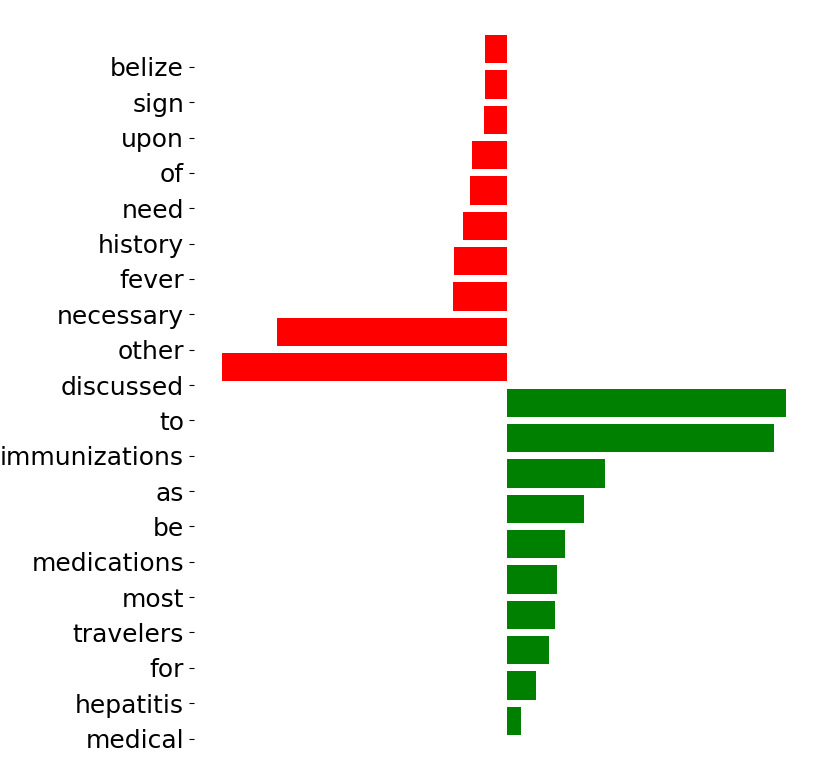
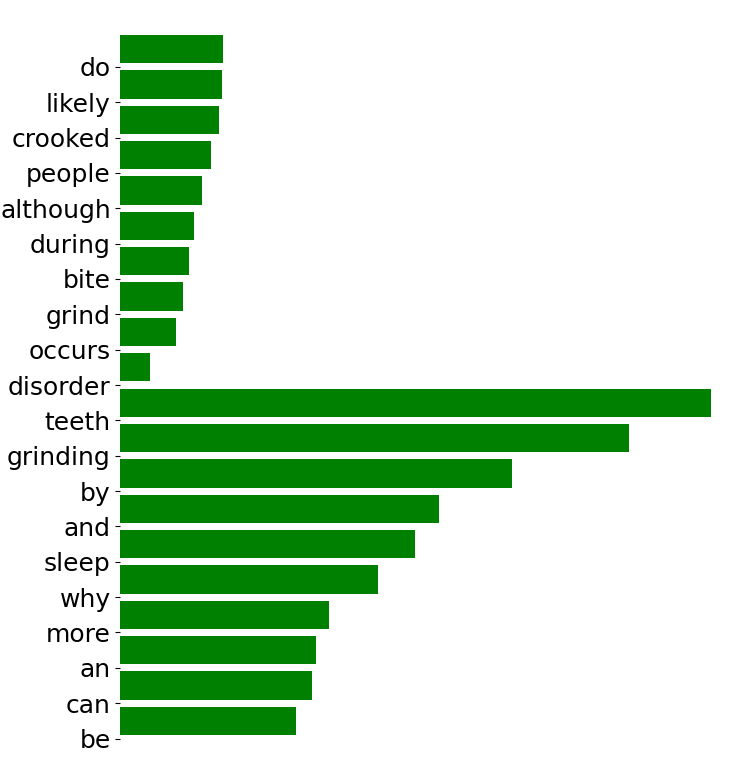
Changes fo crossencoder/mono

Changed region(s): [[0.0, 0.0312, 0.7459, 0.9974], [0.8392, 0.5299, 0.9635, 0.5922], [0.9635, 0.4987, 0.9946, 0.5299]]

diff --git a/static/scripts.js b/static/scripts.js
@@ -6,11 +6,12 @@
   const BOT_NAME = "chatbot";
   const PERSON_NAME = "You";
 
-    // Define a variable to store the selected model
-    let selectedModel = null;
+  // Define a variable to store the selected model
+  let selectedModel = null;
+  let savedResponse = null; 
 
-    // Function to get the selected model
-    function getSelectedModel() {
+  // Function to get the selected model
+  function getSelectedModel() {
     return selectedModel;
     }   
 
@@ -21,6 +22,7 @@
     const chatBubble = document.querySelector('.msg-text');
     const chatMain = document.querySelector('.msger-chat');
 
+    //cross Encoder button
     crossButton.addEventListener('click', function() {
         selectedModel = "Cross Encoder";
         monoButton.disabled = true;
@@ -74,6 +76,7 @@
         }, 1500); // Simulate a delay of 1.5 seconds
     });
 
+    //mono T5 button
     monoButton.addEventListener('click', function() {
         selectedModel = "Mono-T5";
         crossButton.disabled = true;
@@ -125,10 +128,9 @@
             chatMain.appendChild(startMessage);
         }, 1500); // Simulate a delay of 1.5 seconds
     });
-
-
-
-msgerForm.addEventListener("submit", event => {
+    
+    //Send button
+    msgerForm.addEventListener("submit", event => {
     event.preventDefault();
 
     const msgText = msgerInput.value;
@@ -161,20 +163,29 @@ function botResponse(rawText) {
 
     // Send AJAX request to Flask endpoint for processing
     $.ajax({
-        url: "/process", // Use the appropriate endpoint URL
-        type: "POST",   // Use POST method for sending data
+        url: "/process", 
+        type: "POST",   
         contentType: "application/json",
         data: JSON.stringify({ message: rawText, model: selectedModel }), // Send message and model as JSON
         success: function(response) {
+            savedResponse = response;
             // Display bot's response in the chat
             appendMessage(BOT_NAME, "left", response.top_document);
             appendImage(response.explanation_image_path);
-            const rerankedLinks = response.reranked_doc_ids.map(docId => {
-                return `<a href="#" onclick="getExplanation(${docId})">${docId}</a>`;
-            });
-
-            const rerankedLinksHtml = rerankedLinks.join(" , "); // Separate links by line break
-            appendMessage(BOT_NAME, "left", "If you need explanation for specific document - click the document Id: <br>" + rerankedLinksHtml);
+            // const rerankedLinksHtml = response.reranked_doc_ids.map((docId, index) => {
+            //     const responseJsonStr = JSON.stringify(response); 
+            //     console.log("responseJsonStr", responseJsonStr);
+            // return `<a href="#">rank ${index} = ${docId}</a>`;
+            // }).join(", ");      
+            // const rerankedLinksHtml = response.reranked_doc_ids.map((docId, index) => {
+            //     return `<a href="#" class="document-link" data-doc-id="${docId}" data-response-json='${JSON.stringify(response)}'>rank ${index} = ${docId}</a>`;
+            // }).join(", ");   
+            // Generating anchor links
+            const rerankedLinksHtml = response.reranked_doc_ids.map((docId, index) => `
+            <a href="#" class="document-link" data-doc-id="${docId}" data-rank="${index}" data-response-json="${encodeURIComponent(JSON.stringify(response))}">rank ${index} = ${docId}</a>
+            `).join(", ");
+ 
+            appendMessage(BOT_NAME, "left", "If you need an explanation for specific documents, click the document IDs:<br><br>" + rerankedLinksHtml);
         },
         error: function(error) {
             console.error("Error sending message to Flask:", error);
@@ -204,6 +215,103 @@ function appendImage(imagePath) {
     chatContainer.appendChild(imageDiv);
     chatContainer.scrollTop = chatContainer.scrollHeight;
 }
+
+document.addEventListener('click', function(event) {
+    const target = event.target;
+
+    // Check if the clicked element is an anchor element with the class 'document-link'
+    if (target.tagName === 'A' && target.classList.contains('document-link')) {
+        event.preventDefault();
+        const docId = target.getAttribute('data-doc-id');
+        const rank = target.getAttribute('data-rank');
+        const responseJsonStr = target.getAttribute('data-response-json');
+        showDocumentExplanation(docId, responseJsonStr, rank);
+    }
+});
+
+function showDocumentExplanation(docId, responseJsonStr, rank) {
+    appendMessage(PERSON_NAME, "right", docId);
+    const responseJsonEncoded = decodeURIComponent(responseJsonStr);
+    const response = JSON.parse(responseJsonEncoded);
+    const requestData = {
+              rank: rank,
+              doc_id: docId,
+              doc_ids: response.doc_ids,
+              jsondoc: response.jsondoc,
+              rerank_scores: response.rerank_scores,
+              reranked_doc_ids: response.reranked_doc_ids,
+              query: response.query,
+          };
+          
+          // Make a POST request to the backend using jQuery
+          $.ajax({
+              type: "POST",
+              url: "/get_explanation",  // Replace with your Flask route
+              data: JSON.stringify(requestData),
+              contentType: "application/json",
+              success: function(response) {
+                  // Handle the response from the backend as needed
+                  // console.log("Explanation received:", response);
+                  appendImage(response.explanation_image_path);
+                  // Generating anchor links
+                  const rerankedLinksHtml = response.reranked_doc_ids.map((docId, index) => `
+                  <a href="#" class="document-link" data-doc-id="${docId}" data-rank="${index}" data-response-json="${encodeURIComponent(JSON.stringify(response))}">rank ${index} = ${docId}</a>
+                  `).join(", ");
+       
+                
+                appendMessage(BOT_NAME, "left", "If you need an explanation for specific documents, click the document IDs:<br>" + rerankedLinksHtml);
+                  // Do something with the explanation data
+              },
+              error: function(error) {
+                  console.error("Error getting explanation from Flask:", error);
+              }
+             });
+            
+    }
+
+// function getExplanation(index,responseJsonStr) {
+//     const response = JSON.parse(responseJsonStr);
+//     // Get the response JSON from the Flask endpoint
+//     console.log("response", responseJsonStr);
+//   if (response && response.reranked_doc_ids && index >= 0 && index < response.reranked_doc_ids.length) {
+//     const docId = response.reranked_doc_ids[index];
+//     console.log("Getting explanation for document ID:", docId); 
+//   // Construct the request data
+//   const requestData = {
+//       rank: index,
+//       doc_id: docId,
+//       doc_ids: response.doc_ids,
+//       jsondoc: response.jsondoc,
+//       rerank_scores: response.rerank_scores,
+//       reranked_doc_ids: response.reranked_doc_ids,
+//       query: response.query,
+//   };
+
+//   // Make a POST request to the backend using jQuery
+//   $.ajax({
+//       type: "POST",
+//       url: "/get_explanation",  // Replace with your Flask route
+//       data: JSON.stringify(requestData),
+//       contentType: "application/json",
+//       success: function(response) {
+//           // Handle the response from the backend as needed
+//           // console.log("Explanation received:", response);
+//           appendImage(response.explanation_image_path);
+//           const rerankedLinksHtml = response.reranked_doc_ids.map((docId, index) => {
+//             return `<a href="#" onclick="getExplanation(${index}, ${JSON.stringify(response)})">rank ${index} = ${docId}</a>`;
+//         }).join(", ");          
+        
+//         appendMessage(BOT_NAME, "left", "If you need an explanation for specific documents, click the document IDs:<br>" + rerankedLinksHtml);
+//           // Do something with the explanation data
+//       },
+//       error: function(error) {
+//           console.error("Error getting explanation from Flask:", error);
+//       }
+//      });
+//     } else {
+//     console.error("Invalid response data or index:", response, index);
+//     }
+// }
 
    
 

diff --git a/templates/index.html b/templates/index.html
@@ -1,52 +1,44 @@
 <!DOCTYPE html>
 <html lang="en">
-    <head>
-        <meta charset="UTF-8">
-        <meta name="viewport" content="width=device-width, initial-scale=1.0">
-        <meta http-equiv="X-UA-Compatible" content="ie=edge">
-
-        <title> Explaining Through Interface </title>
-        <link rel="stylesheet" href="static/styles/style.css">
-        <script src="https://ajax.googleapis.com/ajax/libs/jquery/3.2.1/jquery.min.js"></script>
-    
-    </head>
-
-    <body>
-        <section class="msger">
-            <header class="msger-header">
-              <div class="msger-header-title">
+<head>
+    <meta charset="UTF-8">
+    <meta name="viewport" content="width=device-width, initial-scale=1.0">
+    <meta http-equiv="X-UA-Compatible" content="ie=edge">
+    <title>Explaining Through Interface</title>
+    <link rel="stylesheet" href="static/styles/style.css">
+    <script src="https://ajax.googleapis.com/ajax/libs/jquery/3.2.1/jquery.min.js"></script>
+</head>
+<body>
+    <section class="msger">
+        <header class="msger-header">
+            <div class="msger-header-title">
                 <i class="fas fa-bug"></i> Explainable Interface <i class="fas fa-bug"></i>
-              </div>
-            </header>
-
-            <main class="msger-chat">
-                <div class="msg left-msg">
-                  <div class="msg-img"></div>
-          
-                  <div class="msg-bubble">
+            </div>
+        </header>
+        <main class="msger-chat">
+            <div class="msg left-msg">
+                <div class="msg-img"></div>
+                <div class="msg-bubble">
                     <div class="msg-info">
-                      <div class="msg-info-name">chatbot</div>
+                        <div class="msg-info-name">chatbot</div>
                     </div>
-          
                     <div class="msg-text">
                         Hi, I am a chatbot. I can assist you in understanding Explainability through this interface.
                         <br><br>
-                         Please select the models for Explainability.
-                         <br><br>   
-                        <button class="cross-button">Cross Encoder</button>  
-                        <button class="mono-button">Mono-T5</button>  
+                        Please select the models for Explainability.
+                        <br><br>
+                        <button class="cross-button">Cross Encoder</button>
+                        <button class="mono-button">Mono-T5</button>
                     </div>
-                  </div>
                 </div>
-              </main>
-          
-              <form class="msger-inputarea">
-                <input type="text" class="msger-input" id="textInput" placeholder="Enter your message...">
-                <button type="submit" class="msger-send-btn">Send</button>
-              </form>
-          
-            </section>
-
-            <script src="static/scripts.js"></script>
-    </body>
+            </div>
+            <div class="detailed-explanation-container"></div>
+        </main>
+        <form class="msger-inputarea">
+            <input type="text" class="msger-input" id="textInput" placeholder="Enter your message...">
+            <button type="submit" class="msger-send-btn">Send</button>
+        </form>
+    </section>
+    <script src="static/scripts.js"></script>
+</body>
 </html>

diff --git a/explain/mono.py b/explain/mono.py
@@ -40,7 +40,7 @@ def visualize(vocabs:np.array, coef: np.array, show_top: int=10, save_path: str 
         plt.close()
         return image_path
 
-def generate_response_cross(user_message):
+def generate_response_mono(user_message):
     query = user_message
     hits = searcher.search(user_message)
     
@@ -78,7 +78,48 @@ def generate_response_cross(user_message):
         'reranked_doc_ids': docids_reranked.tolist(), 
         'jsondoc': json_data_list.tolist(),
         'doc_ids': doc_ids.tolist(), 
-        'rerank_scores': rerank_scores.tolist() 
+        'rerank_scores': rerank_scores ,
+        'query': query
     }
+    return response
+
+def generate_specific_explanation(data):
+    query = data.get('query')
+    print(query)
+    doc_ids = np.array(data.get('doc_ids'))
+    rerank_scores = np.array(data.get('rerank_scores'))
+    docids_reranked = data.get('reranked_doc_ids')
+    r = int(data.get('rank'))
+    doc_id = data.get('doc_id')
+    json_data_list = np.array(data.get('jsondoc'))
+    doc_exp = ''
+    for jsondoc in json_data_list:
+        if 'id' in jsondoc and jsondoc['id'] == doc_id:
+            doc_exp = jsondoc.get('contents', '')
+            break
+    print(doc_exp)  
+    EXS = ExplainableSearch(reranker, 'svm')
+    exp_input = {}
+    exp_input = {query: dict([(a, b) for a, b in zip(doc_ids, rerank_scores)])}
+    for key, value in exp_input[query].items():
+        print(key, value, '\n')
+    exp_doc = {query: {'rank': r,'text':doc_exp}}
+    results = EXS.explain(exp_input, exp_doc , r+1 , 'rank')
+     
+    
+    image_path = visualize(results[query][0], results[query][1], save_path=os.path.join(app.static_folder, 'images'))
+             
+    response = {
+        
+        'explanation_image_path': image_path,
+        'reranked_doc_ids': docids_reranked,
+        'jsondoc': json_data_list.tolist(),
+        'doc_ids': doc_ids.tolist(), 
+        'rerank_scores': rerank_scores.tolist() ,
+        'query': query 
+    }
+
+    print(response)
+
     return response
     

diff --git a/explain/crossencoder.py b/explain/crossencoder.py
@@ -79,7 +79,47 @@ def generate_response_cross(user_message):
         'reranked_doc_ids': docids_reranked.tolist(), 
         'jsondoc': json_data_list.tolist(),
         'doc_ids': doc_ids.tolist(), 
-        'rerank_scores': rerank_scores.tolist() 
+        'rerank_scores': rerank_scores.tolist() ,
+        'query': query
     }
     return response
     
+def generate_specific_explanation(data):
+    query = data.get('query')
+    print(query)
+    doc_ids = np.array(data.get('doc_ids'))
+    rerank_scores = np.array(data.get('rerank_scores'))
+    docids_reranked = data.get('reranked_doc_ids')
+    r = int(data.get('rank'))
+    doc_id = data.get('doc_id')
+    json_data_list = np.array(data.get('jsondoc'))
+    doc_exp = ''
+    for jsondoc in json_data_list:
+        if 'id' in jsondoc and jsondoc['id'] == doc_id:
+            doc_exp = jsondoc.get('contents', '')
+            break
+    print(doc_exp)  
+    EXS = ExplainableSearch(reranker, 'svm')
+    exp_input = {}
+    exp_input = {query: dict([(a, b) for a, b in zip(doc_ids, rerank_scores)])}
+    for key, value in exp_input[query].items():
+        print(key, value, '\n')
+    exp_doc = {query: {'rank': r,'text':doc_exp}}
+    results = EXS.explain(exp_input, exp_doc , r+1 , 'topk-bin')
+     
+    
+    image_path = visualize(results[query][0], results[query][1], save_path=os.path.join(app.static_folder, 'images'))
+             
+    response = {
+        
+        'explanation_image_path': image_path,
+        'reranked_doc_ids': docids_reranked,
+        'jsondoc': json_data_list.tolist(),
+        'doc_ids': doc_ids.tolist(), 
+        'rerank_scores': rerank_scores.tolist() ,
+        'query': query 
+    }
+    return response
+
+         
+         

diff --git a/app.py b/app.py
@@ -24,5 +24,14 @@ def process_data():
 
     return jsonify(response_data)
 
+@app.route('/get_explanation', methods=['post'])
+def get_explanation():
+    data = request.get_json()
+    print(data)
+    from explain.crossencoder import generate_specific_explanation
+    response = generate_specific_explanation(data)
+
+    return jsonify(response)
+
 if __name__ == '__main__':
     app.run(debug=True)
